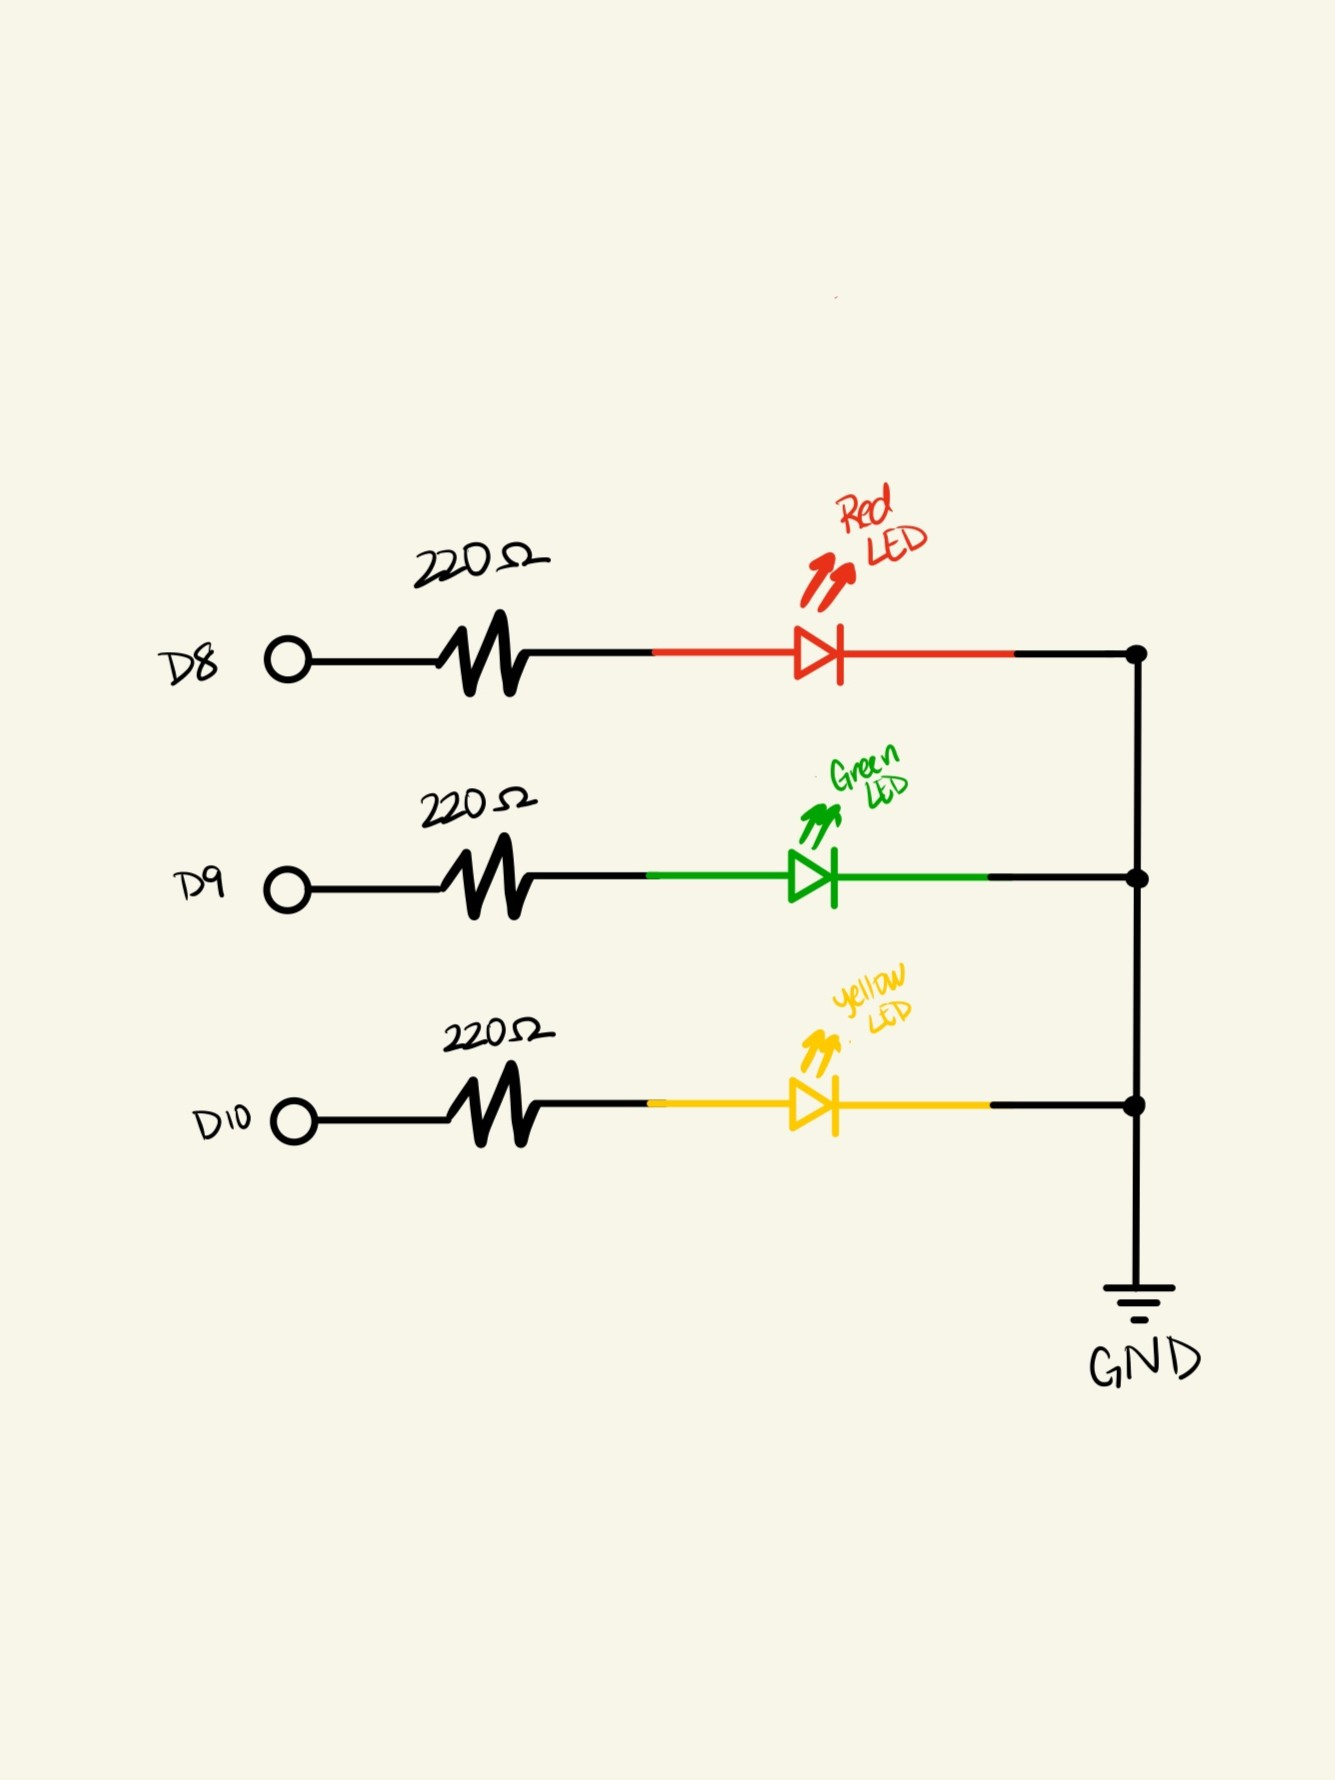
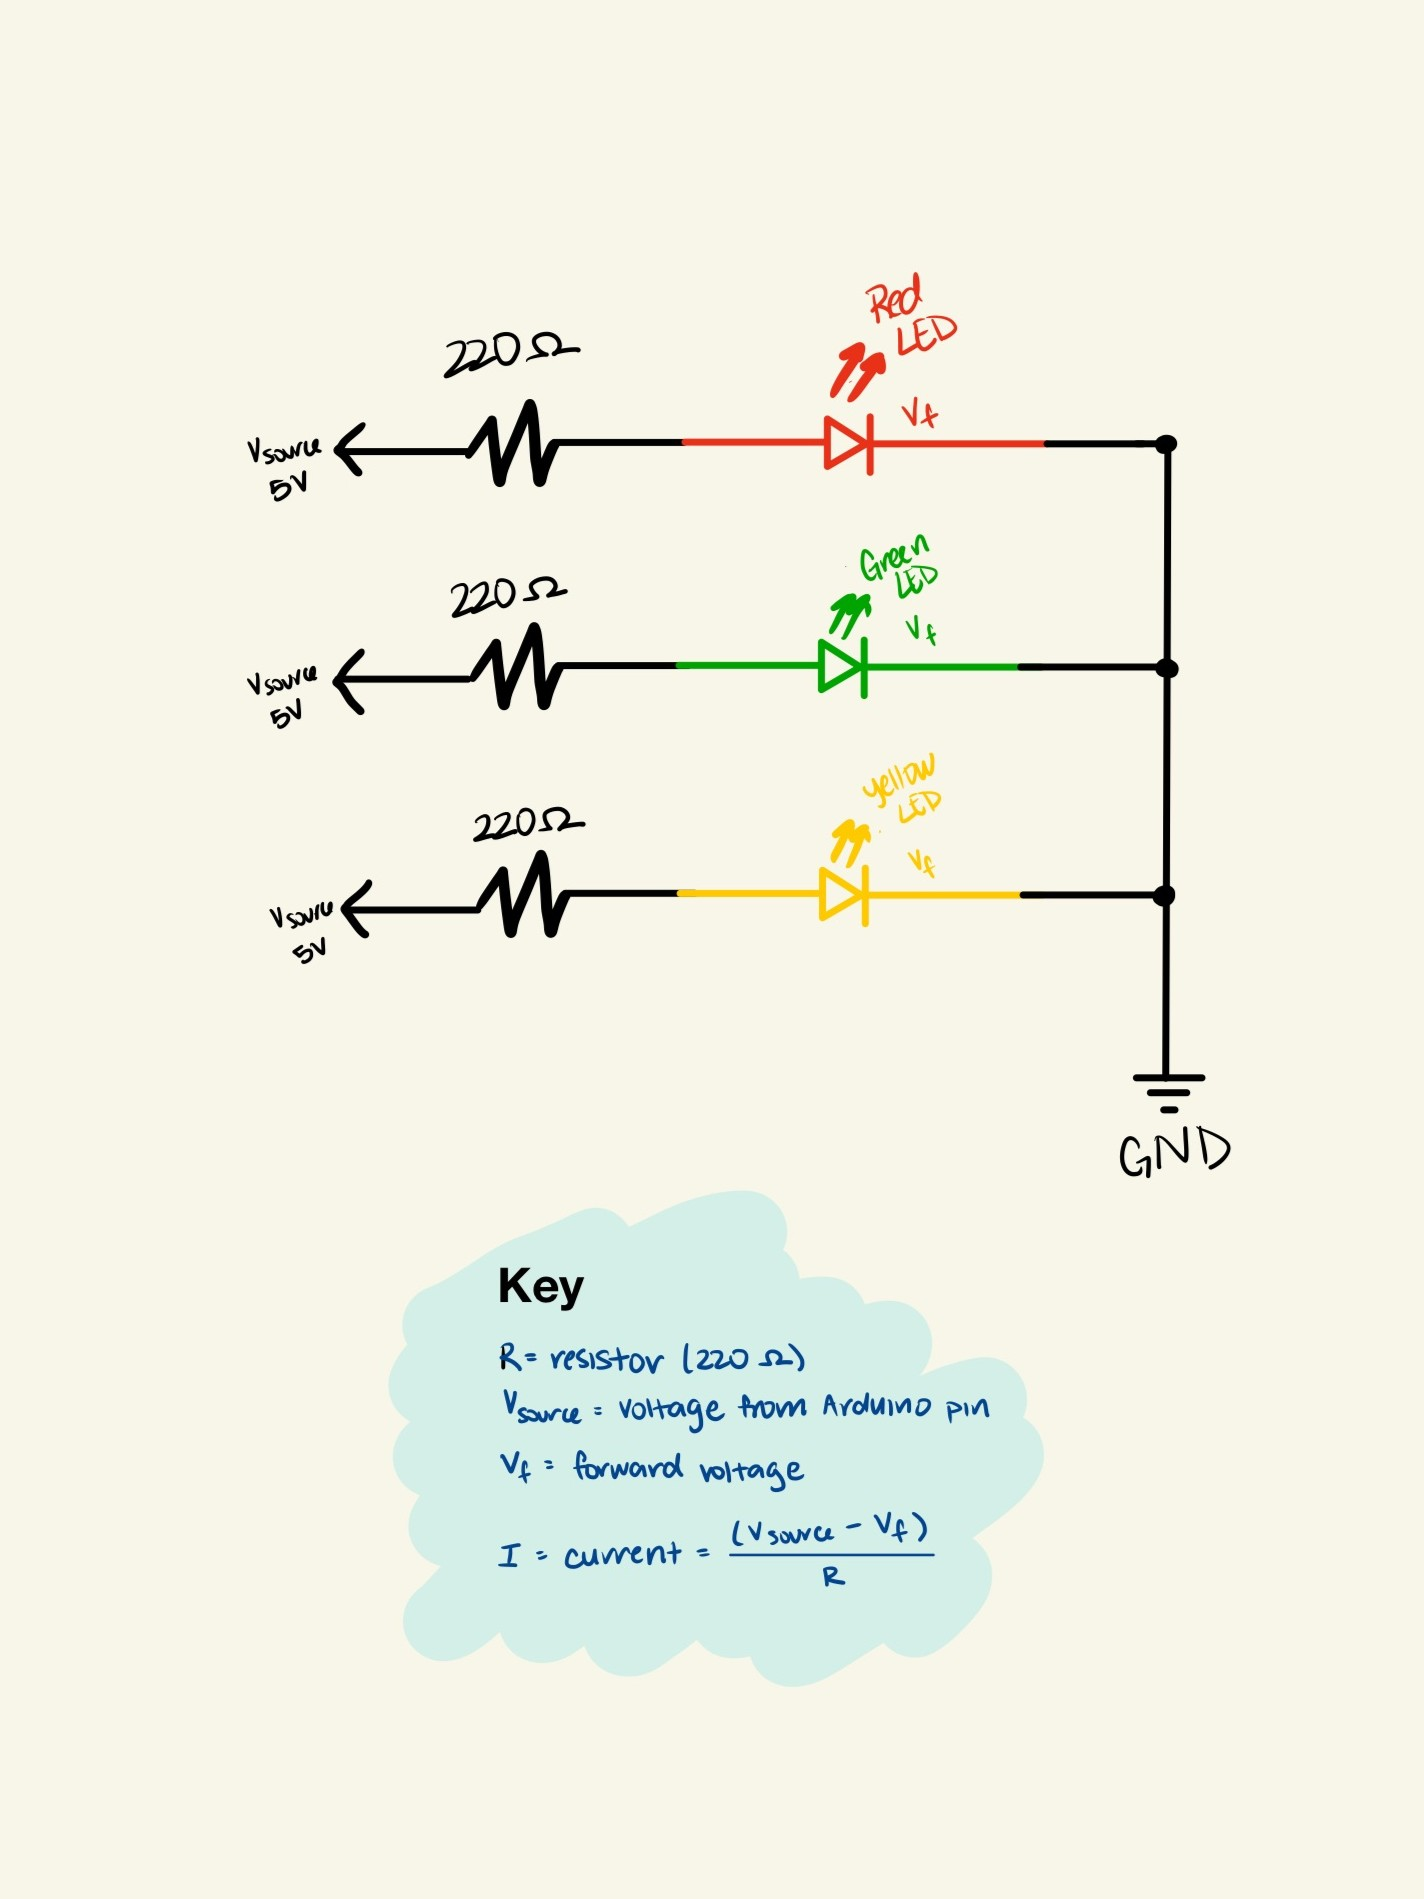
making changes

Changed region(s): [[0.1228, 0.1236, 0.8906, 0.8961]]

diff --git a/docs/a1.html b/docs/a1.html
@@ -151,7 +151,7 @@
       </figure>
 
       <figure>
-        <img src="schematic2.jpg" alt="Circuit schematic with three LED branches">
+        <img src="schematic.jpg" alt="Circuit schematic with three LED branches">
         <figcaption>
           <strong>Schematic.</strong> Three parallel branches connect directly to the Arduino's I/O pins. Each resistor is in series with its LED to limit current and keep the LED from burning out. Using Ohm's law, 220&Omega; resistors are used for red and yellow and green(despite having a higher forward voltage). All targets are about 15 mA from the 5 V pin.
         </figcaption>
